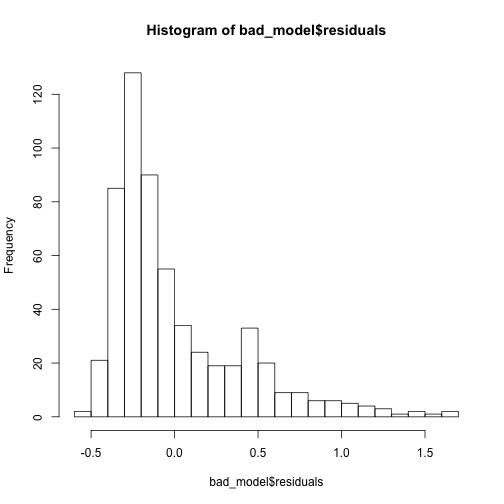
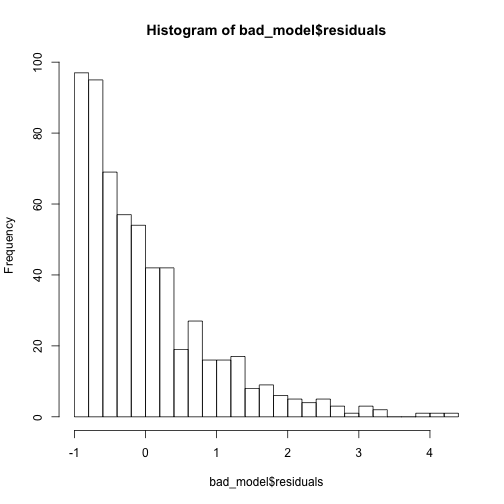
added new bad model from fake data

diff --git a/_includes/syllabus.html b/_includes/syllabus.html
@@ -75,4 +75,6 @@
     The actual schedule may vary slightly depending on the topics and exercises chosen by the instructor.
   </p>
 
-</div>
+  <p>
+    This lesson was funded by NIH grant R25GM123516 awarded to Dr. Gary Churchill at The Jackson Laboratory.</div>
+  </p>

diff --git a/_episodes/05-anova.md b/_episodes/05-anova.md
@@ -18,8 +18,8 @@ source: Rmd
 
 
 ## Linear Regression
-Linear regression describes how one variable changes dependent on another.
-We can use linear regression to predict the mean value of a dependent, or response variable according to the value of an independent variable, or predictor. In the following example we'll explore how body weight changes depending on diet composition. 
+Linear regression describes how one variable changes dependent on another one, or two, or more variables.
+We can use linear regression to predict the mean value of a dependent, or response variable according to the value of one or more independent variables, or predictors. In the following example we'll explore how body weight (the dependent variable) changes depending on diet composition (the independent variable). 
 
 ## Data
 
@@ -94,7 +94,7 @@ In the following example, we model body weight at 10 weeks as a function of diet
 
 ![](../fig/linear-model.png)
 
-The residuals (or errors) are the distance of each data point from the line describing the linear model, as shown above. If we look at a histogram of the residuals, they should be normally distributed.
+The residuals (or errors; an example represented by the vertical, red-dashed line in the above plot) are the distance of each data point (a light blue circle) from the (blue) line describing the linear model. If we look at a histogram of the residuals, they should be normally distributed.  A normal, or Gaussian, distribution is identified by having a mean, median, and mode that are all equal, and the data generate a curve that is symmetric at the center (or mean).
 
 ![](../fig/residual-histogram.png)
 
@@ -169,7 +169,7 @@ Note that the first several fitted values are the same. These are the predicted 
 
 
 ~~~
-table(model$fitted.values)
+table(round(model$fitted.values, digits = 4))
 ~~~
 {: .language-r}
 
@@ -177,8 +177,8 @@ table(model$fitted.values)
 
 ~~~
 
-25.8908530066815 28.5301015228422 28.5301015228424 28.5301015228426 
-             449                1                1              392 
+25.8909 28.5301 
+    449     394 
 ~~~
 {: .output}
 
@@ -186,9 +186,13 @@ The difference between predicted values for standard chow vs. high-fat diet is a
 
 ## The residuals
 
-Residuals are estimates of experimental error obtained by subtracting the observed responses from the predicted responses (or actual data from data set minus what is predicted by the model).  The predicted response is calculated from the chosen model, after all the unknown model parameters have been estimated from the experimental data.  Examining residuals is a key part of all statistical modeling.  Carefully looking at residuals can tell us whether our assumptions are reasonable and our choice of model is appropriate.
+Residuals are estimates of experimental error obtained by subtracting the observed responses from the predicted responses (or actual data from data set minus what is predicted by the model).  The predicted response (or fitted value) is the dependent variable (y-value) that is predicted by the model based on all the accounted for independent variables (x-values). 
 
-Residuals are elements of variation unexplained by the fitted model.  Residuals should be (roughly) normal and (approximately) independently distributed with a mean of zero and some constant variance.  If error is not normal or independently distributed this would indicate that a different (nonlinear) model may be more suitable to analyze the data or that other significant factors need to be accounted for.  For example, if predicting BW.10 we only used a model with Sex, we may obtain poor residual plots because we are failing to account for a crucial factor, such as, Diet.  Show example of residual plots only using Sex (and provide the R code).
+A fitted value is simply another name for a predicted value as it describes where a particular x-value fits the line of best fit. It is found by substituting a given value of x into the regression equation. A residual denoted (e) is the difference or error between an observed observation and a predicted or fit value
+
+Examining residuals is a key part of all statistical modeling.  Carefully looking at residuals can tell us whether our assumptions are reasonable and our choice of model is appropriate.
+
+Residuals are elements of variation unexplained by the model.  Residuals should be (roughly) normal and (approximately) independently distributed with a mean of zero and some constant variance.  If error is not normal or independently distributed this would indicate that a different (nonlinear) model may be more suitable to analyze the data or that other significant factors need to be accounted for.  For example, if predicting BW.10 we only used a model with Sex, we may obtain poor residual plots because we are failing to account for a crucial factor, such as, Diet.  Show example of residual plots only using Sex (and provide the R code).
 
 Now create a histogram of the residuals to check for a normal distribution.
 
@@ -224,60 +228,38 @@ plot(model, which = 1)
 Note that the residuals are plotted along one of two fitted values - the one for standard chow (25.9), or the predicted value for high-fat diet (28.5). There should be constant variance vertically and points should scatter symmetrically around zero. The plot indicates the 3 data points that stand out as outliers, with index numbers supplied for each.   
 
 ## A Bad Model
-Now let's look at one that is unmistakably bad. This is a linear model of hemoglobin concentration distribution width (HDW) and bone area from a multi-system survey of mouse physiology in 8 inbred founder strains and 54 F1 hybrids of the Collaborative Cross. The study is described in [Lenarcic et al, 2012](http://www.genetics.org/content/190/2/413.full). For more information about this data set, see the [CGDpheno3 data](http://phenome.jax.org/db/q?rtn=projects/details&id=439) at Mouse Phenome Database. 
+Now let's look at one that is unmistakably bad. This is a linear model created from a fake dataset. 
 
-Load the data.
-
-
-~~~
-cc_data <- read.csv(file = "../data/CGDpheno3.csv", stringsAsFactors = FALSE)
-
-# Create the model of hemoglobin concentration distribution width (HDW) and bone area.
-bad_model <- lm(formula = HDW ~ bone_area, data = cc_data)
-
-# Plot the regression line in a scatterplot.
-plot(x = cc_data$bone_area, y = cc_data$HDW)
-abline(bad_model)
-~~~
-{: .language-r}
-
-<img src="../fig/rmd-05-bad_model-1.png" title="plot of chunk bad_model" alt="plot of chunk bad_model" style="display: block; margin: auto;" />
-
-~~~
-summary(bad_model)
-~~~
-{: .language-r}
-
+<img src="../fig/rmd-05-bad_data-1.png" title="plot of chunk bad_data" alt="plot of chunk bad_data" style="display: block; margin: auto;" />
 
 
 ~~~
 
 Call:
-lm(formula = HDW ~ bone_area, data = cc_data)
+lm(formula = y ~ x, data = bad_data)
 
 Residuals:
     Min      1Q  Median      3Q     Max 
--0.5296 -0.2630 -0.1530  0.1712  1.6964 
+-0.9848 -0.6894 -0.2627  0.3640  4.2218 
 
 Coefficients:
             Estimate Std. Error t value Pr(>|t|)    
-(Intercept) 1.902727   0.085920  22.145   <2e-16 ***
-bone_area   0.005231   0.016195   0.323    0.747    
+(Intercept)  1.06517    0.14140   7.533 1.84e-13 ***
+x           -0.07909    0.12402  -0.638    0.524    
 ---
 Signif. codes:  0 '***' 0.001 '**' 0.01 '*' 0.05 '.' 0.1 ' ' 1
 
-Residual standard error: 0.395 on 576 degrees of freedom
-  (64 observations deleted due to missingness)
-Multiple R-squared:  0.0001811,	Adjusted R-squared:  -0.001555 
-F-statistic: 0.1043 on 1 and 576 DF,  p-value: 0.7468
+Residual standard error: 0.9113 on 598 degrees of freedom
+Multiple R-squared:  0.0006796,	Adjusted R-squared:  -0.0009915 
+F-statistic: 0.4067 on 1 and 598 DF,  p-value: 0.5239
 ~~~
 {: .output}
 
-Note the values for the F-statistic and the R-squared. Also notice that beta, the slope, is near zero, indicating no relationship between the two variables.
+Note the values for the F-statistic and the R-squared. Also notice that the slope (Estimate column) is near zero (-0.079085), indicating no relationship between the two variables.
 
 
 ~~~
-hist(x = bad_model$residuals, breaks=20)
+hist(x = bad_model$residuals, breaks=30)
 ~~~
 {: .language-r}
 
@@ -402,6 +384,8 @@ head(model2$fitted.values)
 hist(model2$residuals, breaks = 20)
 ~~~
 {: .language-r}
+
+<img src="../fig/rmd-05-histogram2-1.png" title="plot of chunk histogram2" alt="plot of chunk histogram2" style="display: block; margin: auto;" />
 
 Check for normal distribution of the residuals with a Q-Q plot. 
 

diff --git a/setup.md b/setup.md
@@ -3,4 +3,44 @@ layout: page
 title: Setup
 permalink: /setup/
 ---
-FIXME
+## Installation
+
+This lesson assumes you have the R and RStudio software installed on your computer.
+
+R can be downloaded from [CRAN](https://cran.r-project.org/mirrors.html).
+
+RStudio is an environment for developing using R.
+It can be downloaded [here](https://www.rstudio.com/products/rstudio/download/).
+You will need the Desktop version for your computer.
+
+## Data files and project organization
+
+1. Make a new folder in your Desktop called `experimental_design`. Move into this new folder.
+
+2. Create  a `data` folder to hold the data, a `scripts` folder to house your scripts, and a `results` folder to hold results.
+
+Alternatively, you can use the R console to run the following commands for steps 1 and 2.
+
+~~~
+setwd("~/Desktop")
+dir.create("./experimental_design")
+setwd("~/Desktop/experimental_design")
+dir.create("./data")
+dir.create("./scripts")
+dir.create("./results")
+~~~
+{: .r}
+
+3. Please download the following files **before the workshop**, and place them in your `data` folder. You can download the files from the URLs below and move the files the same way that you would for downloading and moving any other kind of data.
+
+- [Svenson DO850 mouse body weight data](https://raw.githubusercontent.com/smcclatchy/dals-inference/gh-pages/data/bodyWeights.csv)
+- [CGD Collaborative Cross Strain Survey data](https://raw.githubusercontent.com/smcclatchy/dals-inference/gh-pages/data/CGDpheno3.csv)
+
+Alternatively, you can copy and paste the following into the R console to download the data.
+~~~
+setwd("~/Desktop/experimental_design")
+download.file("https://raw.githubusercontent.com/smcclatchy/dals-inference/gh-pages/data/bodyWeights.csv", "./data/bodyWeights.csv")
+download.file("https://raw.githubusercontent.com/smcclatchy/dals-inference/gh-pages/data/CGDpheno3.csv", "./data/CGDpheno3.csv")
+~~~
+{: .r}
+

diff --git a/_episodes/06-power-calc.md b/_episodes/06-power-calc.md
@@ -23,6 +23,8 @@ source: Rmd
 
 
 ## Motivator: A retraction
+[A Biologist Talks to a Statistician](https://www.youtube.com/watch?v=Hz1fyhVOjr4)
+
 See Doug Melton's retraction of betatrophin paper in the journal Cell.
 https://retractionwatch.com/2016/12/27/harvard-biologist-retracts-diabetes-breakthrough-cell/
 "When we repeated our original experiments with a larger number of mice, we also failed to observe β-cell expansion"
